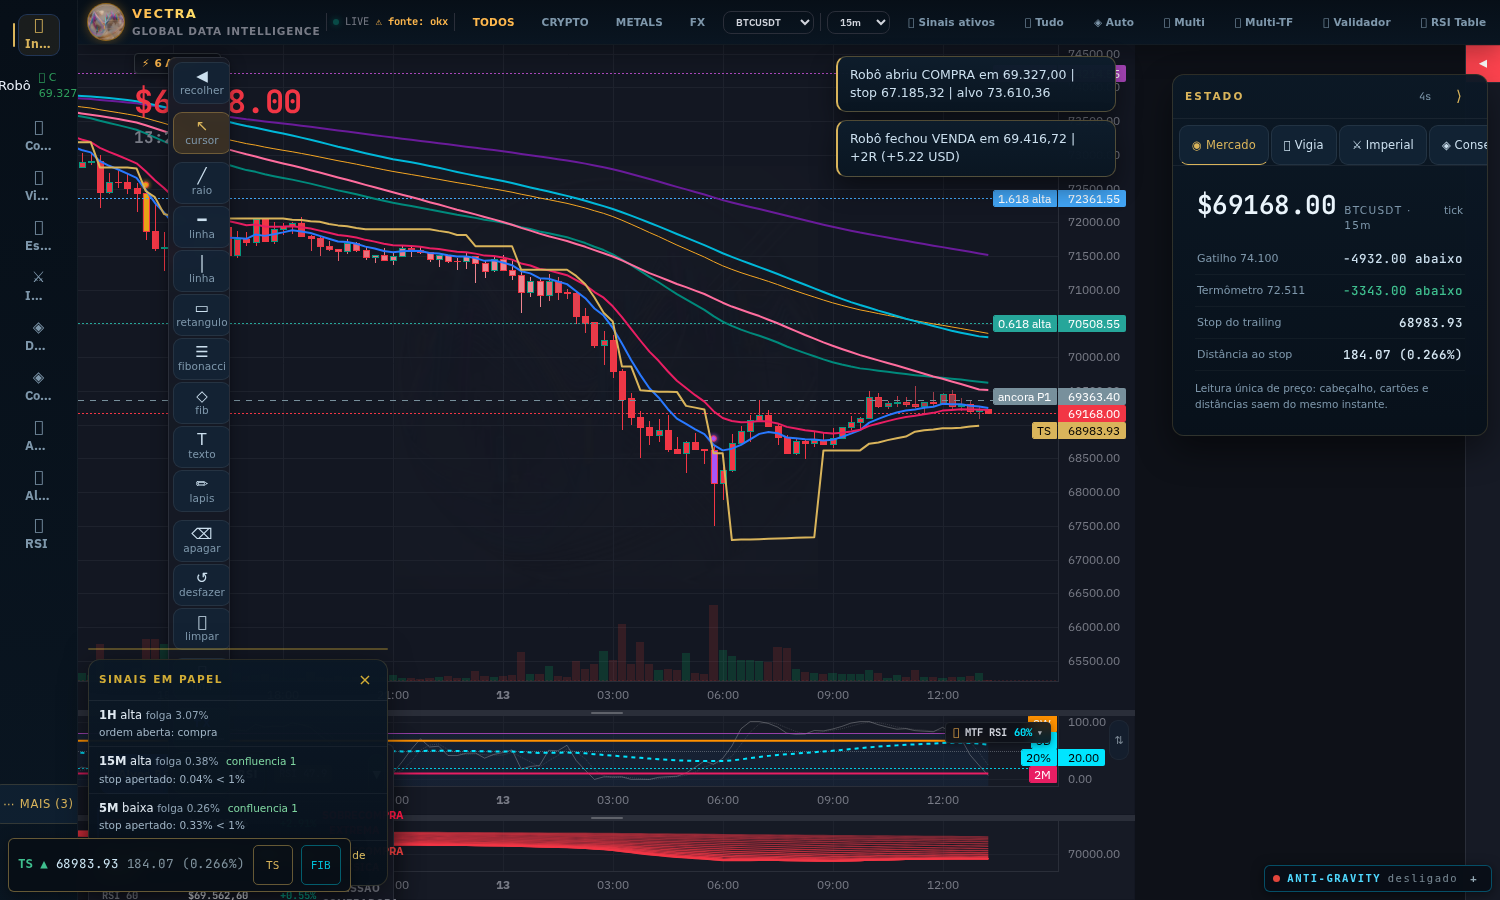
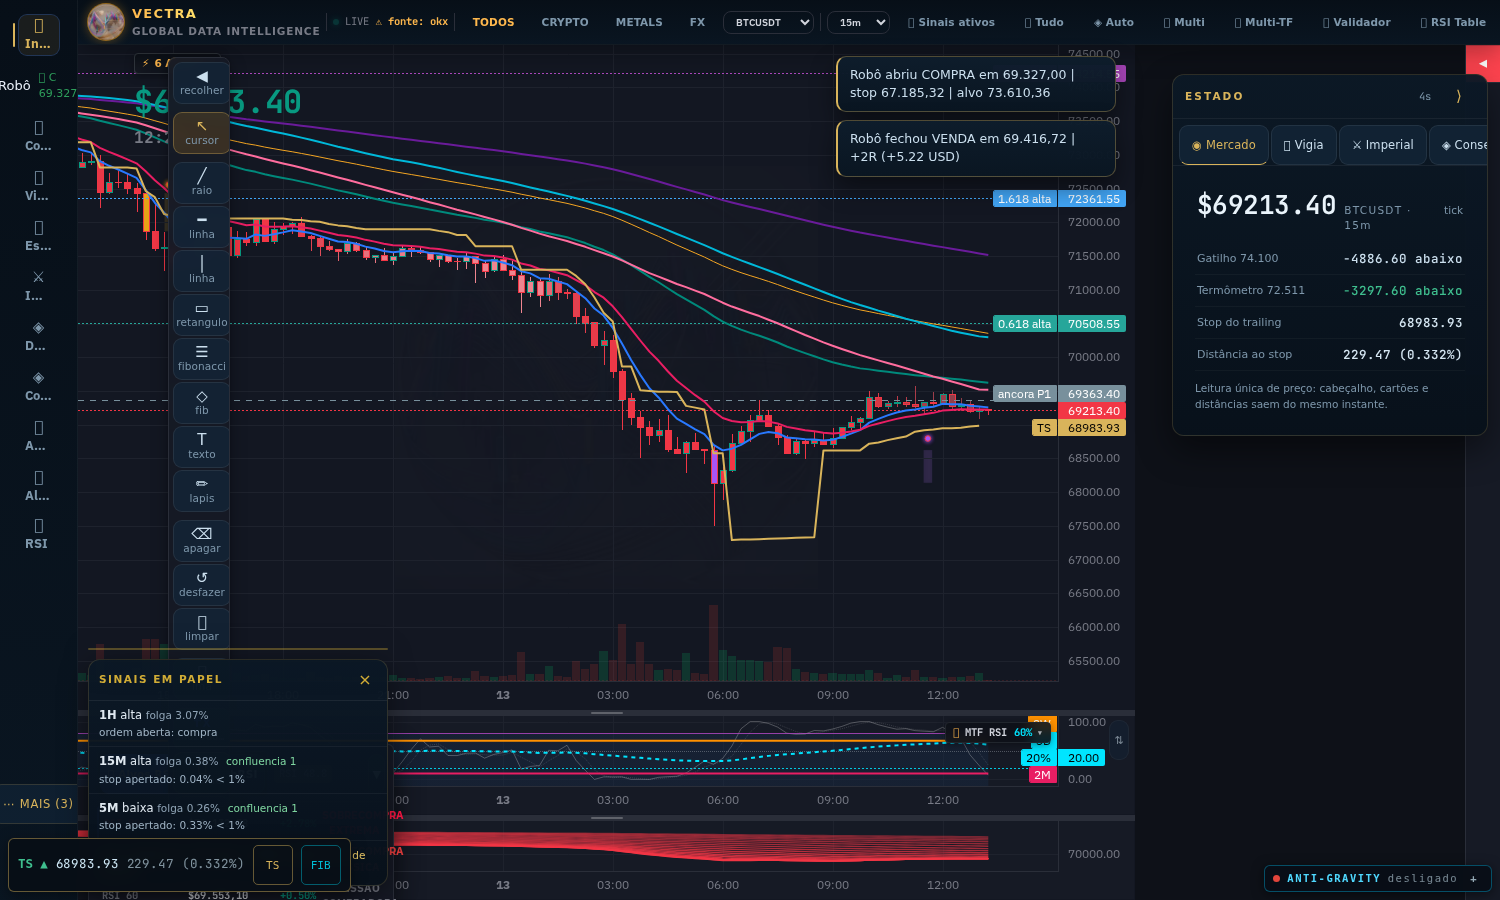
Ticket dentro do card de sinais (2 lotes, media, risco, alvo)

diff --git a/atlas-ui/vectra-sinais.js b/atlas-ui/vectra-sinais.js
@@ -12,11 +12,21 @@
       "<div class=vx-motivo>"+acao+"</div></div>";
   }
   function monta(){
-    Promise.all([pega("robopapel_estado.json"),pega("robopapel_estado_15m.json"),pega("robopapel_estado_5m.json"),pega("sinais_confluencia.json")]).then(function(r){
+    Promise.all([pega("posicoes.json"),pega("robopapel_estado.json"),pega("robopapel_estado_15m.json"),pega("robopapel_estado_5m.json"),pega("sinais_confluencia.json")]).then(function(r){
       if(!caixa||!document.body.contains(caixa)) return;
       var h = "<div class=vx-sinais-topo><span>SINAIS EM PAPEL</span><button id=vx-sinais-fecha aria-label=\"recolher\">×</button></div>";
-      h += linha("1H", r[0]) + linha("15M", r[1]) + linha("5M", r[2]);
-      var c = r[3]||{}, res = c.resumo||{};
+      h += linha("1H", r[1]) + linha("15M", r[2]) + linha("5M", r[3]);
+      var pos = r[0];
+      if (pos && pos.ordens && pos.ordens.length) {
+        var se = 0, ss = 0;
+        for (var i = 0; i < pos.ordens.length; i++) { se += Number(pos.ordens[i].entrada); ss += Number(pos.ordens[i].stop); }
+        var n = pos.ordens.length, media = se / n, smed = ss / n;
+        h += "<div class=vx-sinal-linha><b>POSIÇÃO</b> compra " + pos.ordens.length + " lotes"
+          + "<div class=vx-motivo>média " + media.toFixed(0) + " · stop médio " + smed.toFixed(0)
+          + " · risco " + (media - smed).toFixed(0) + " pts<br>alvo " + Number(pos.alvo).toFixed(0)
+          + " · ganho " + (Number(pos.alvo) - media).toFixed(0) + " pts</div></div>";
+      }
+      var c = r[4]||{}, res = c.resumo||{};
       if(res["0"]){var g=res["0"], m=(g.soma/g.n), ac=Math.round((g.acerto||0)/g.n*100); h += "<div class=vx-sinal-resumo>sem confluencia: "+g.n+" sinais, "+m.toFixed(2)+"% medio ("+ac+"% de acerto)</div>";}
       caixa.innerHTML = h;
       var b = document.getElementById("vx-sinais-fecha");

diff --git a/atlas-ui/index.html b/atlas-ui/index.html
@@ -1877,8 +1877,7 @@
 <script defer src="./robo-ui.js?v=3"></script>
 <script type="module" src="./core/rsi-matrix.js?v=1"></script>
 <script src="vectra-tipografia.js?v=4" defer></script>
-<script src="vectra-sinais.js?v=3" defer></script>
-<script src="vectra-ticket.js?v=2" defer></script>
+<script src="vectra-sinais.js?v=4" defer></script>
 <script src="rsi-matrix-ui.js?v=1" defer></script>
 <script src="ui-extras.js?v=9" defer></script>
 <script src="alerta-central.js?v=1" defer></script>
